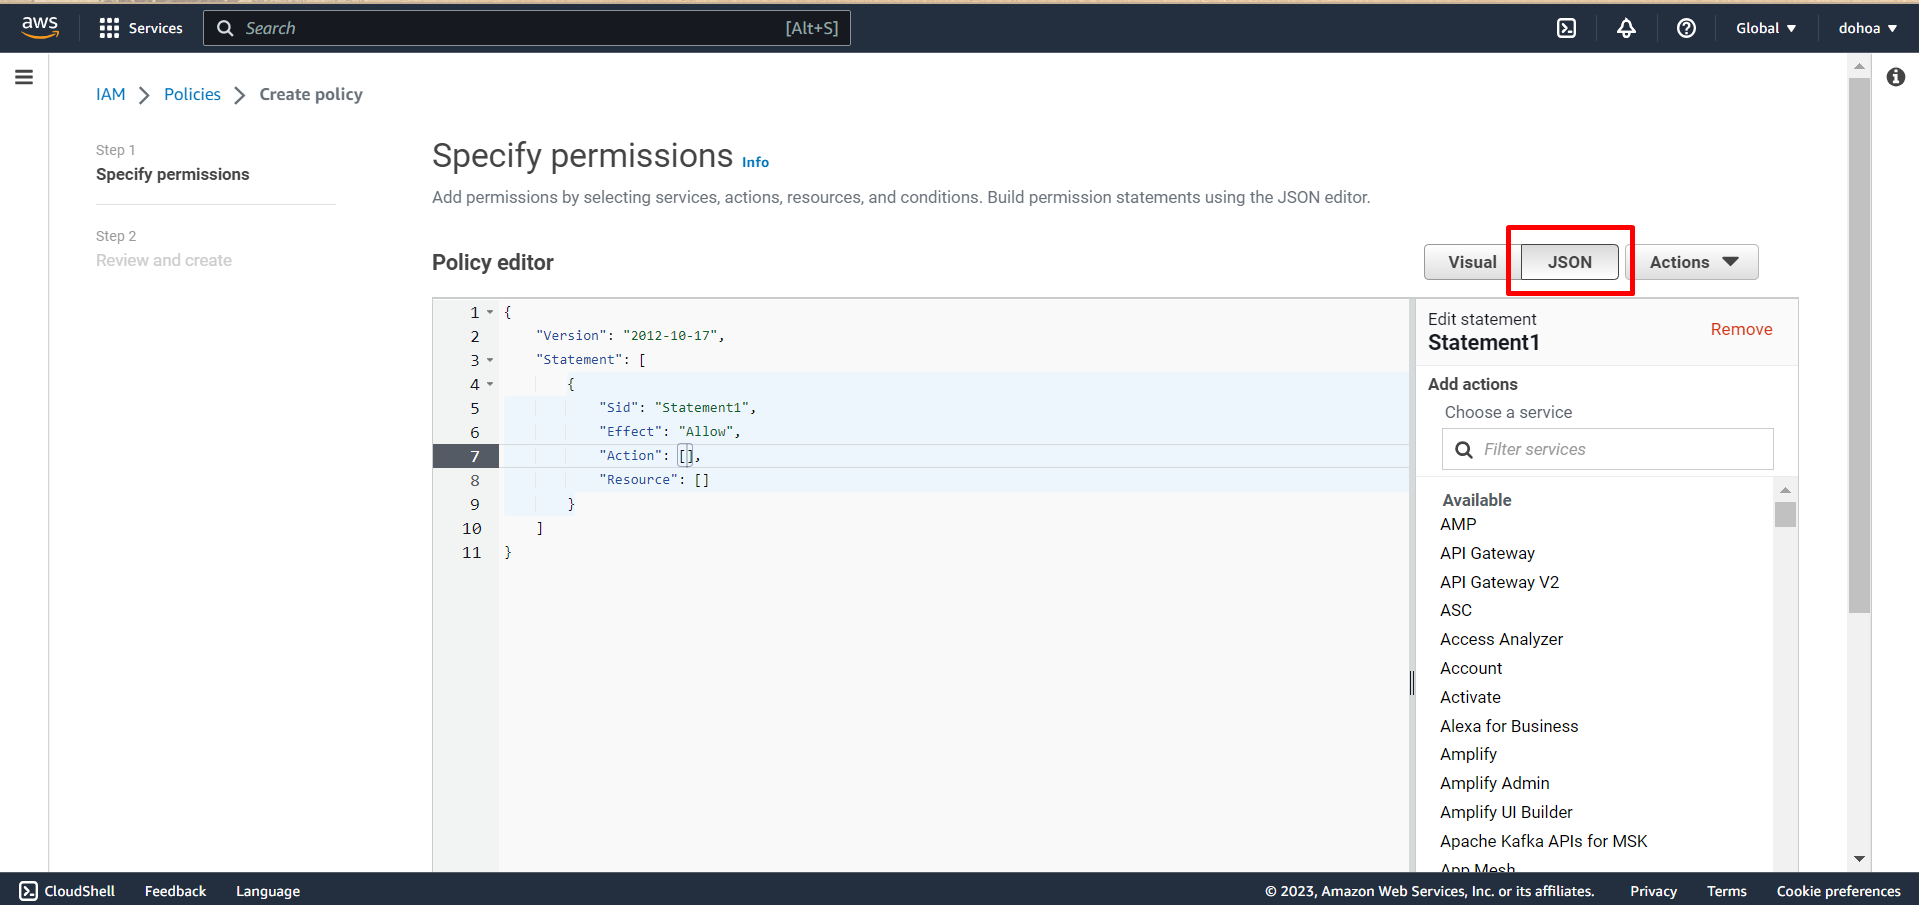
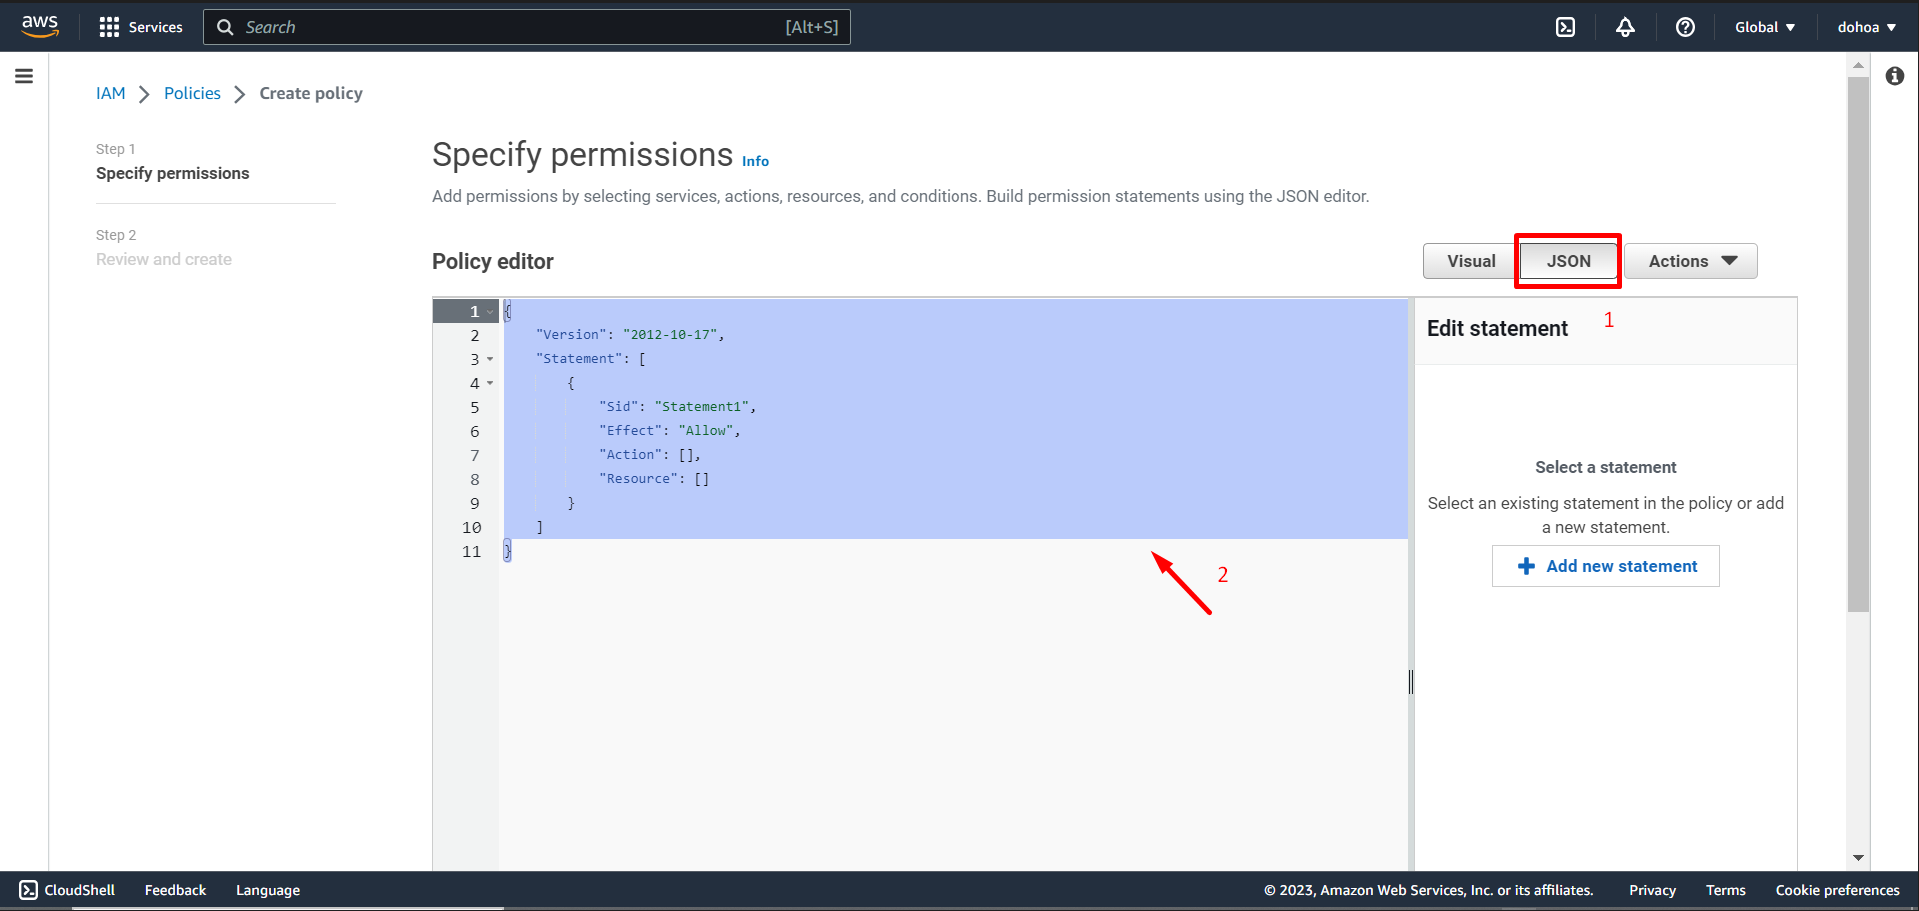
Edit Source Code

diff --git a/3-createIAMRole/index.html b/3-createIAMRole/index.html
@@ -638,7 +638,7 @@
 <div class="notices info" ><p>Để tạo hoặc sửa đổi điểm cuối và kết nối với tài nguyên, người dùng phải có quyền IAM bắt buộc và mọi nhóm bảo mật được liên kết với tài nguyên VPC của bạn phải có quy tắc cho phép kết nối.</p></div>
 <li>Trong bước 3, bạn cần tạo 2 chính sách IAM và 1 người dùng IAM .</li>
 
-<h4>Tạo chính sách IAM cho phép người dùng tạo, mô tả và xóa Điểm cuối kết nối phiên bản EC2 .</h4>
+<h4>Tạo chính sách IAM cho phép người dùng tạo, mô tả và xóa Điểm cuối kết nối phiên bản EC2 </h4>
 <ol>
 <li>Truy cập vào link tài liệu :<a href="https://docs.aws.amazon.com/AWSEC2/latest/UserGuide/permissions-for-ec2-instance-connect-endpoint.html"> https://docs.aws.amazon.com/AWSEC2/latest/UserGuide/permissions-for-ec2-instance-connect-endpoint.html</a></li>
 </ol>
@@ -650,6 +650,38 @@
 <p>Cuộn xuống dưới là mẫu của chính sách .</p>
 <p><img src="../images/3.createiamrole/iam-2.png" alt="iam-2"></p>
 <div class="notices note" ><p>Bất cứ điều gì mà AWS đánh dấu đỏ, điều đó có nghĩa là bạn phải cập nhật các giá trị này, vì vậy khi sao chép chính sách này chúng ta cầ cập nhập vị trí và ID tài khoản của chúng ta thay cho phần được đánh dấu đỏ .</p></div>
+<ol start="2">
+<li>Sau khi chỉnh sửa vào copy chính sách, quay lại bảng điều khiển của AWS, vào nhập tìm kiếm <strong>IAM</strong> và chọn <strong>IAM</strong> trong phần dịch vụ .</li>
+</ol>
+<p><img src="../images/3.createiamrole/iam-3.png" alt="iam-3"></p>
+<ol start="3">
+<li>Trong bảng điều khiển IAM chọn <strong>Policies</strong> .</li>
+</ol>
+<ul>
+<li>Ở phần <strong>Policies</strong> click vào <strong>Create policies</strong> .</li>
+</ul>
+<p><img src="../images/3.createiamrole/iam-0.png" alt="iam-0"></p>
+<ol start="4">
+<li>Trên trang này click vào <strong>JSON</strong> .</li>
+</ol>
+<ul>
+<li>Xóa chính sách .</li>
+</ul>
+<p><img src="../images/3.createiamrole/iam-6.png" alt="iam-6"></p>
+<ol start="4">
+<li>Và dán chính sách mà bạn sao chép từ tài liệu vào đây .</li>
+</ol>
+<p><img src="../images/3.createiamrole/iam-8.png" alt="iam-8"></p>
+<ul>
+<li>Bên cạnh đó bạn phải cập nhập <strong>Vị trí</strong> và <strong>ID tài khoản AWS</strong> của bạn như hình trên .</li>
+</ul>
+<div class="notices tip" ><p>Vào giao diện của AWS, click vào tài khoản và vị trí mà bạn sử dụng, sao đó bạn chỉ cần copy vào phần như hình trên  .</p></div>
+<ul>
+<li>Sau đó kéo xuống và click vào <strong>Next</strong> .</li>
+</ul>
+<p><img src="../images/3.createiamrole/iam-9.png" alt="iam-9"></p>
+
+
 
 
 
